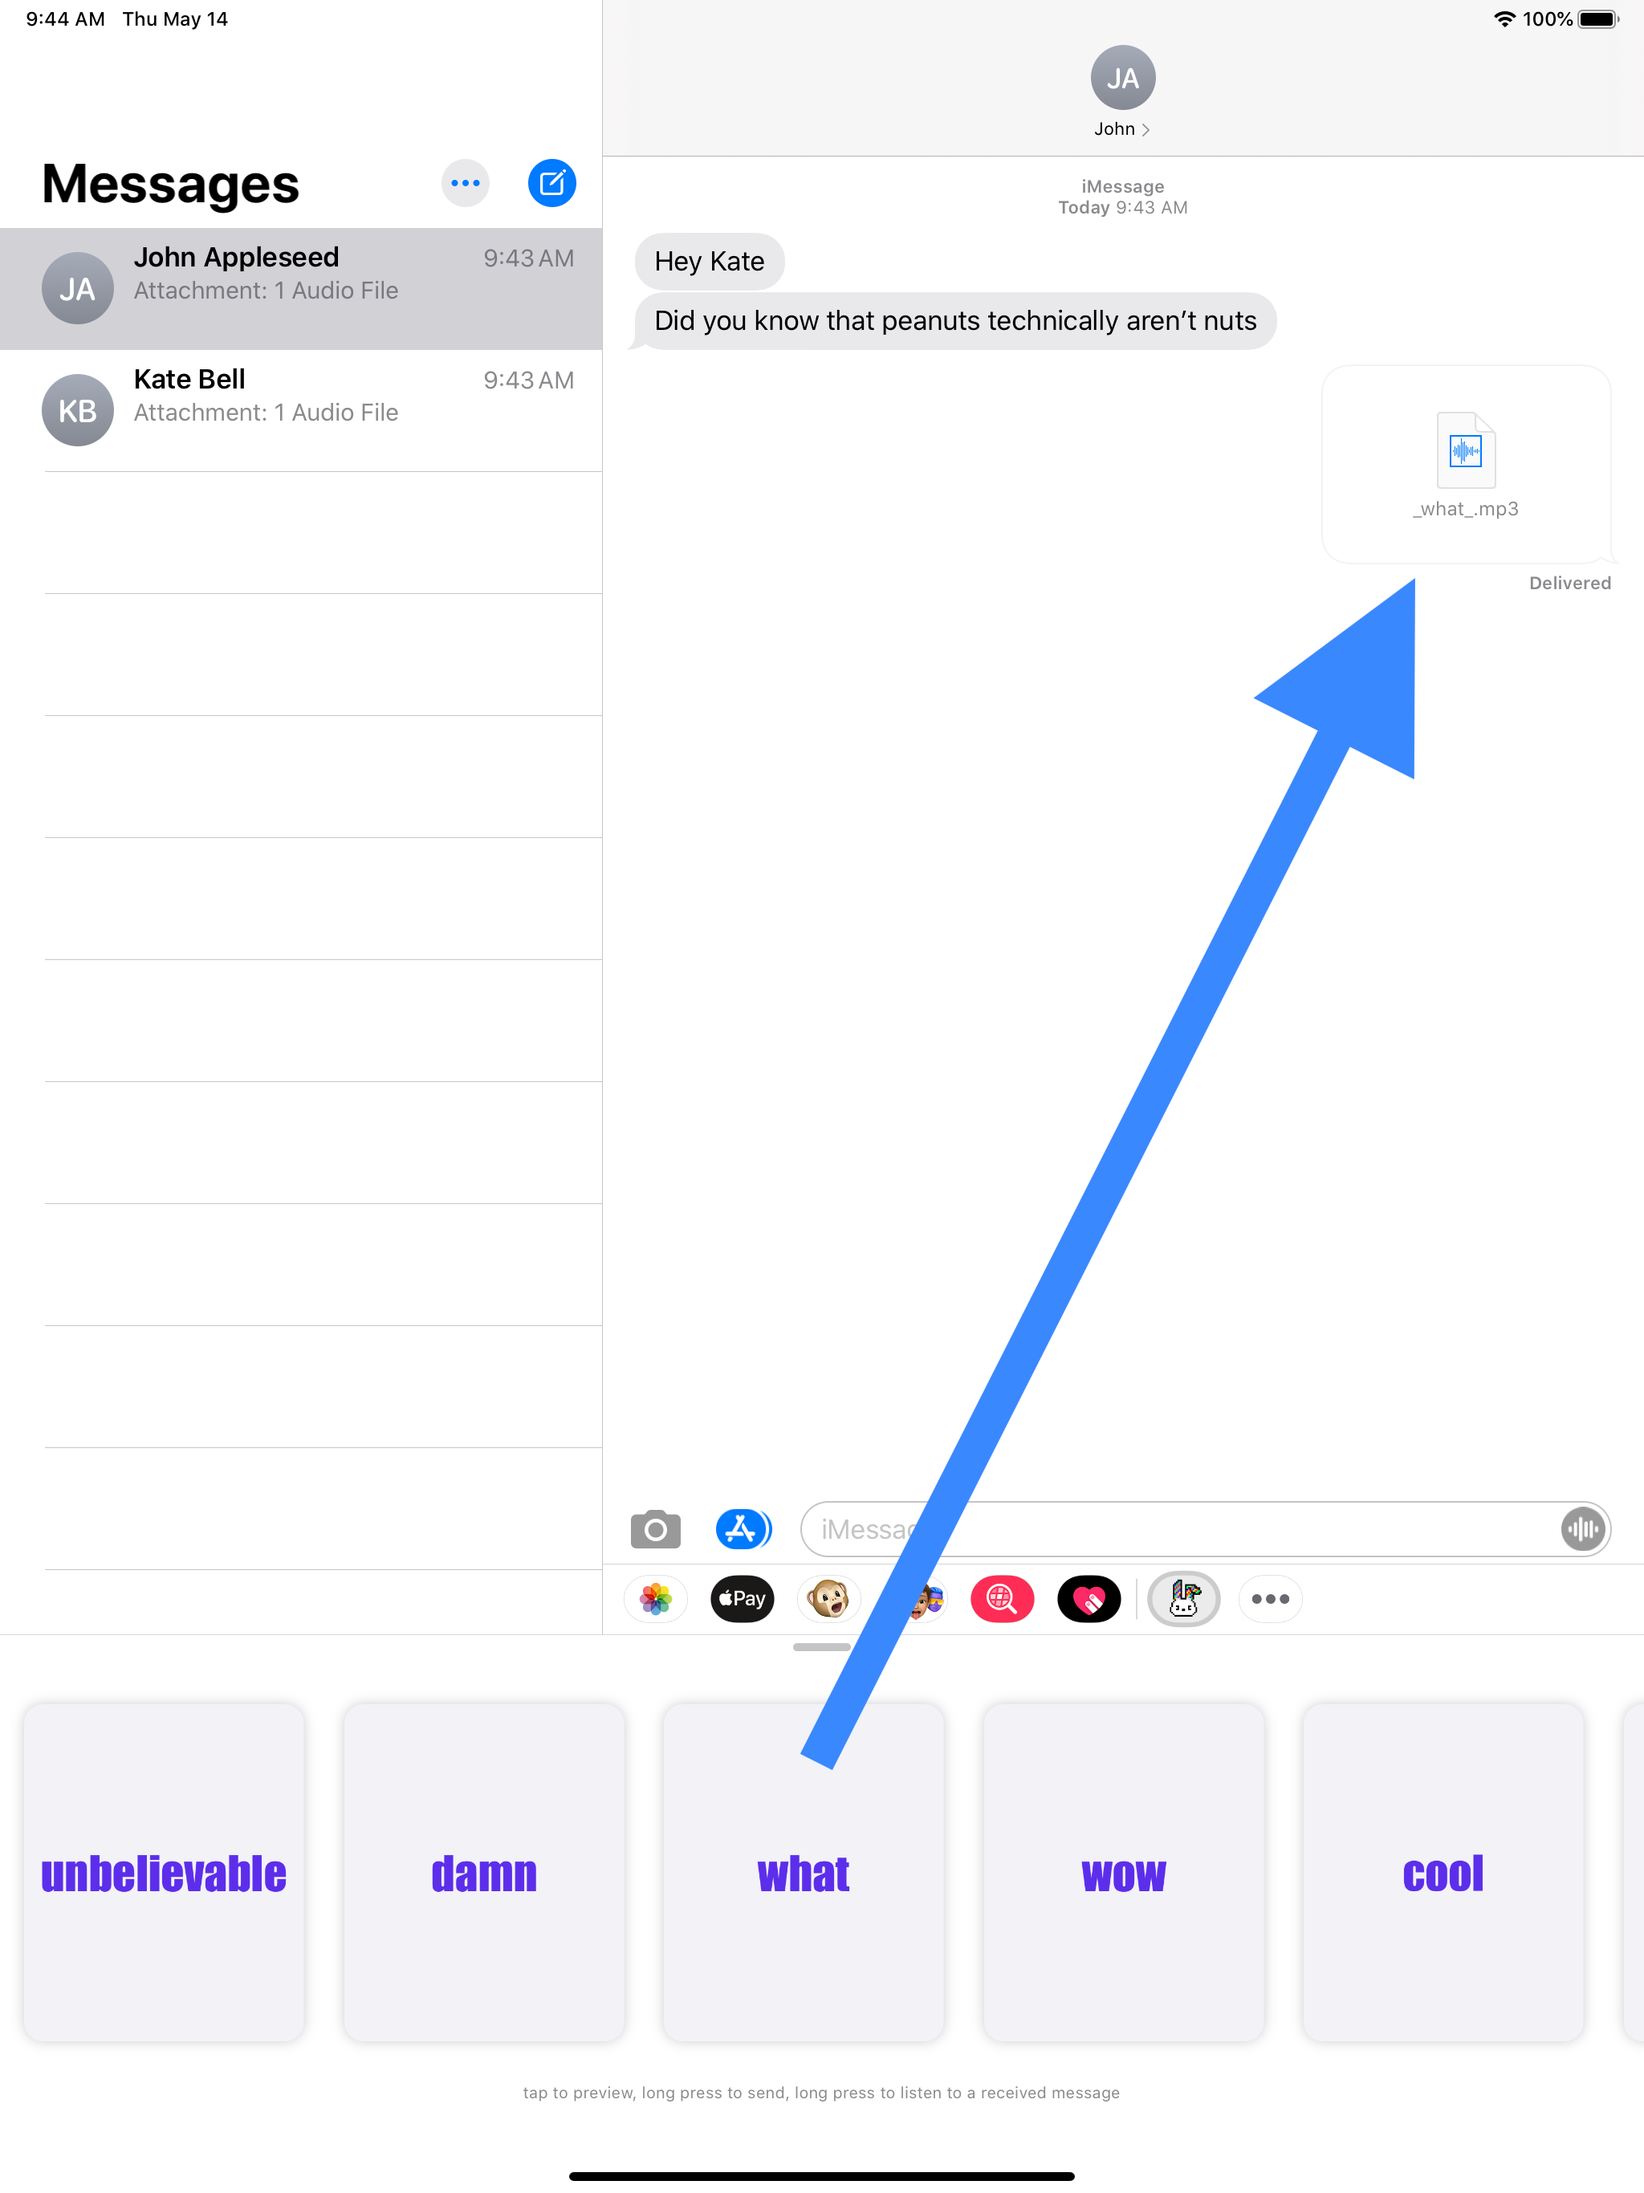
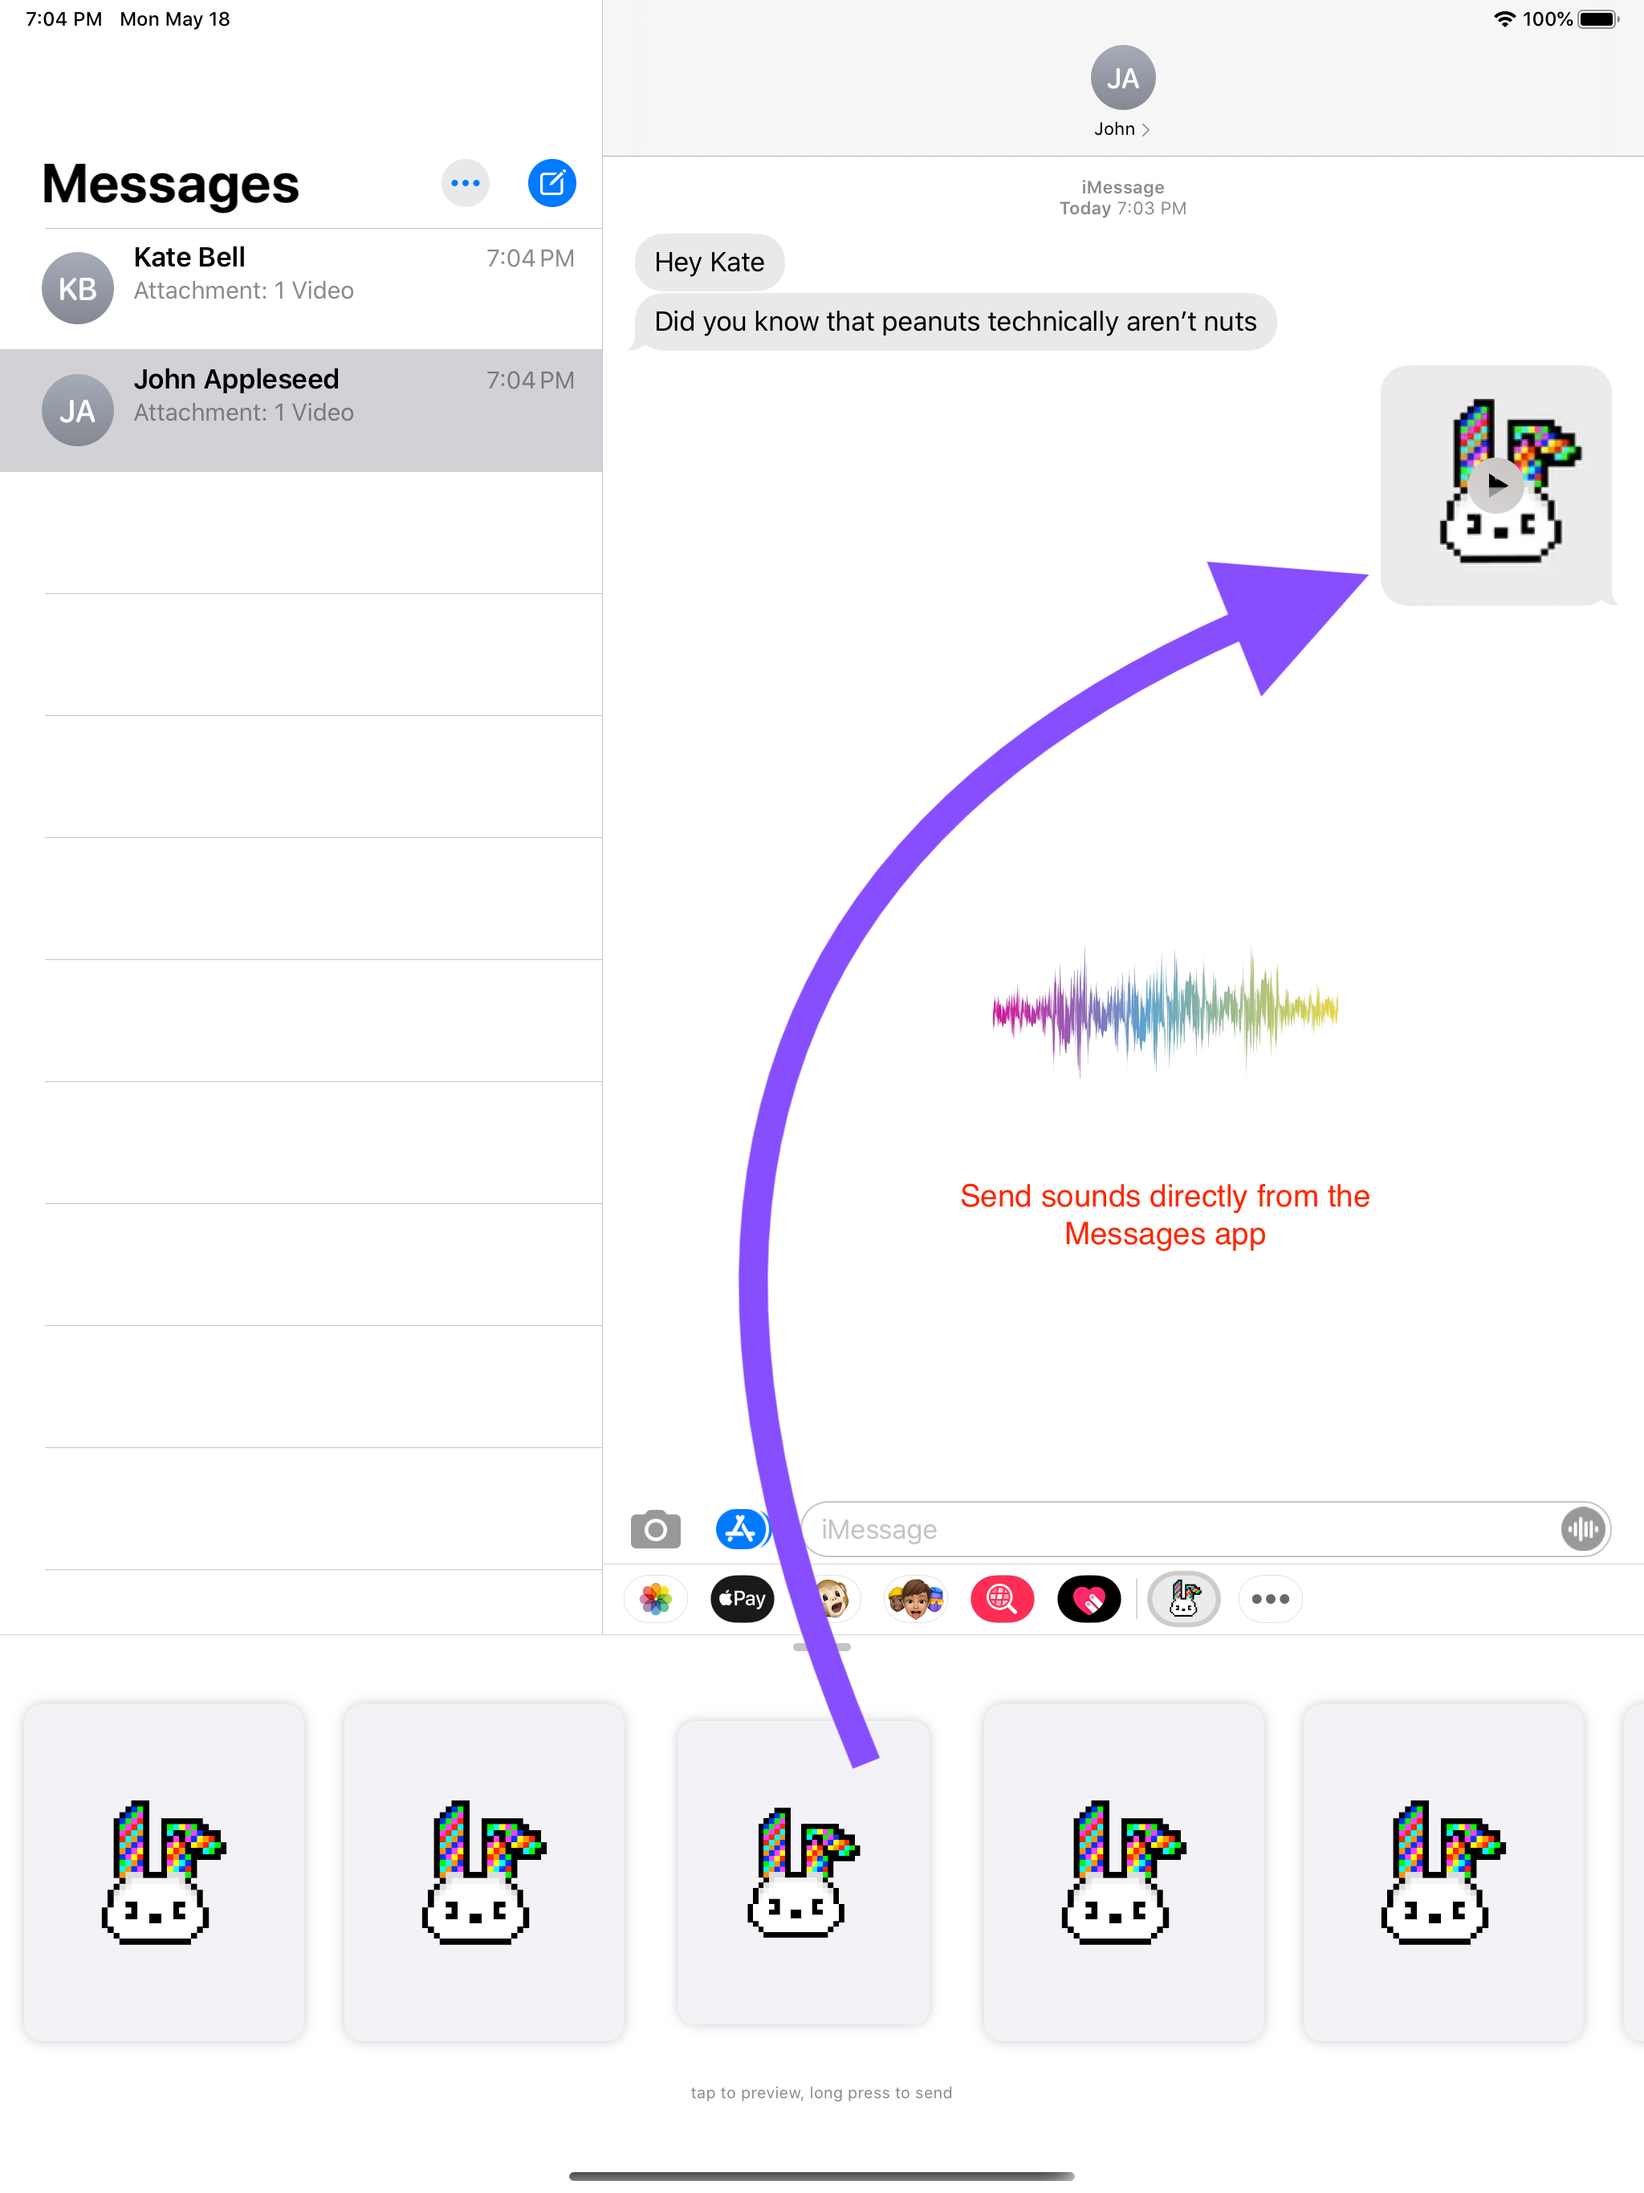
Version 1.1 out for review

diff --git a/Thwump/Thwump MessagesExtension/MessagesViewController.swift b/Thwump/Thwump MessagesExtension/MessagesViewController.swift
@@ -72,7 +72,7 @@ class MessagesViewController: MSMessagesAppViewController, UICollectionViewDeleg
         instructionLabel.numberOfLines = -1
         instructionLabel.translatesAutoresizingMaskIntoConstraints = false
         view.addSubview(instructionLabel)
-        instructionLabel.text = "tap to preview, long press to send, long press to listen to a received message"
+        instructionLabel.text = "tap to preview, long press to send"
         instructionLabel.font = .systemFont(ofSize: 10.0)
         instructionLabel.textColor = .secondaryLabel
 		instructionLabel.topAnchor.constraint(equalTo: collectionView.bottomAnchor).isActive = true
